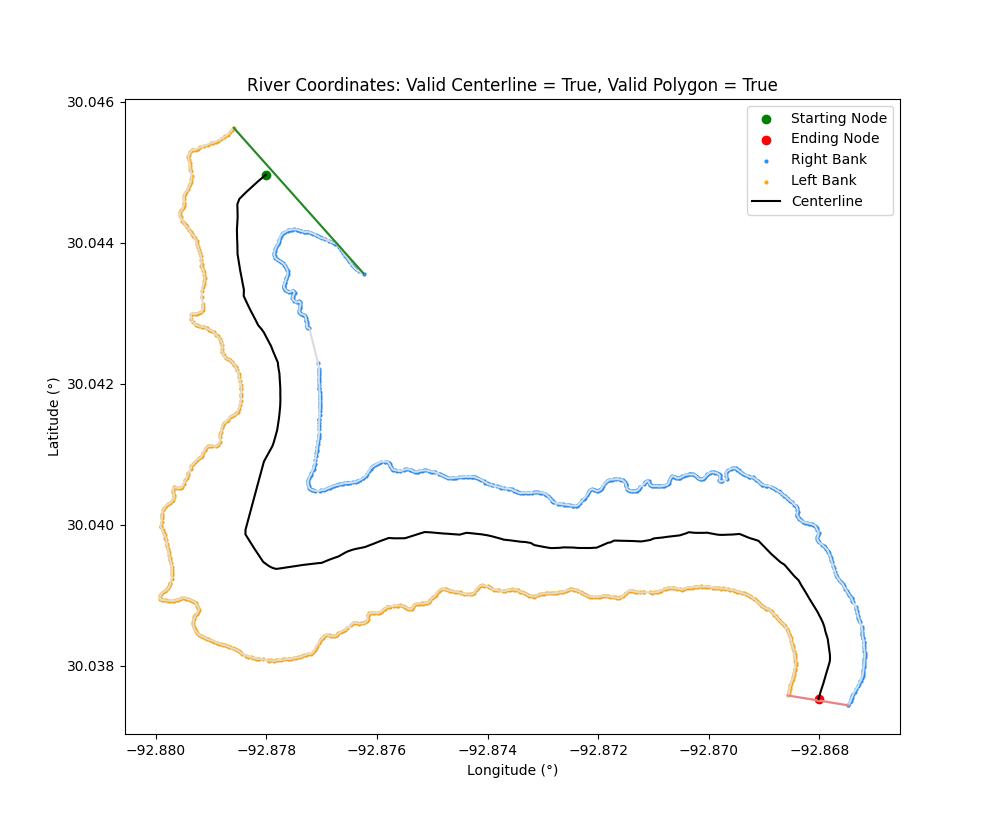
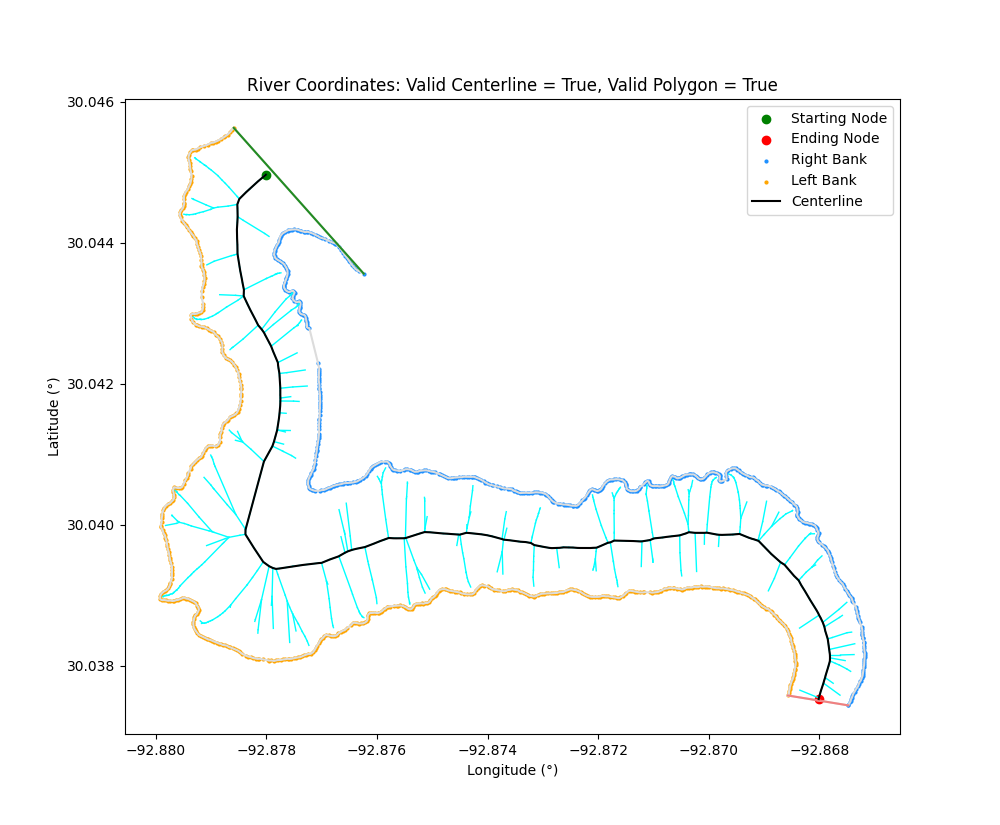
set up dataframe cutoff for debugging

diff --git a/river_centerline_width.py b/river_centerline_width.py
@@ -47,14 +47,10 @@ def convertColumnsToCSV(text_file=None, flipBankDirection=False):
 		write.writerow(header_fields)
 		write.writerows(total_rows)
 
-def riverDataframe(data_csv=None):
-	# River dataframe from csv
-	return pd.read_csv(data_csv)
-
 def leftRightCoordinates(dataframe):
 	right_bank_coordinates = [] # without nan
 	left_bank_coordinates = [] # wtihout nan
-	for index, row in df.iterrows():
+	for index, row in dataframe.iterrows():
 		if not math.isnan(row.rlat) and not math.isnan(row.rlon):
 			right_bank_coordinates.append([row.rlon, row.rlat])
 		if not math.isnan(row.llat) and not math.isnan(row.llon):
@@ -170,9 +166,12 @@ def networkXGraphShortestPath(all_points_dict, starting_node, ending_node):
 	#nx.draw(graph_connections, with_labels=True, font_size=10)
 	return shortest_path
 ########################################################################
-def centerlineLatitudeLongitude(dataframe=None):
+def centerlineLatitudeLongitude(csv_data=None, optional_cutoff=None):
 	# Returns the latitude and longitude for the centerline
-	left_bank_coordinates, right_bank_coordinates = leftRightCoordinates(dataframe)
+	df = pd.read_csv(csv_data)
+	if optional_cutoff:
+		df = df.head(optional_cutoff)
+	left_bank_coordinates, right_bank_coordinates = leftRightCoordinates(df)
 
 	river_bank_polygon, top_river_line, bottom_river_line = generatePolygon(left_bank_coordinates, right_bank_coordinates)
 	river_bank_voronoi = generateVoronoi(left_bank_coordinates, right_bank_coordinates)
@@ -182,10 +181,14 @@ def centerlineLatitudeLongitude(dataframe=None):
 
 	return shortest_path_coordinates
 
-def plotRiver(dataframe=None, display_all_paths=False, save_plot_name=None, displayVoronoi=False):
+def plotRiver(csv_data=None, display_all_paths=False, plot_title=None, save_plot_name=None, displayVoronoi=False, optional_cutoff=None):
 	# display_all_paths: display all possible paths (not just centerline) (useful for debugging)
 	# Plot river
-	left_bank_coordinates, right_bank_coordinates = leftRightCoordinates(dataframe)
+	df = pd.read_csv(csv_data)
+	if optional_cutoff:
+		df = df.head(optional_cutoff)
+
+	left_bank_coordinates, right_bank_coordinates = leftRightCoordinates(df)
 	river_bank_polygon, top_river_line, bottom_river_line = generatePolygon(left_bank_coordinates, right_bank_coordinates)
 	river_bank_voronoi = generateVoronoi(left_bank_coordinates, right_bank_coordinates)
 
@@ -244,18 +247,24 @@ def plotRiver(dataframe=None, display_all_paths=False, save_plot_name=None, disp
 		valid_path_through = True
 		plt.plot(*zip(*shortest_path_points), c="black", label="Centerline")
 
-	plt.title("River Coordinates: Valid Centerline = {0}, Valid Polygon = {1}".format(valid_path_through, river_bank_polygon.is_valid))
+	if not plot_title:
+		plt.title("River Coordinates: Valid Centerline = {0}, Valid Polygon = {1}".format(valid_path_through, river_bank_polygon.is_valid))
+	else:
+		plt.title(plot_title)
 	plt.xlabel("Longitude (°)")
 	plt.ylabel("Latitude (°)")
 	plt.legend(loc="upper right")
 	plt.show()
 	fig.savefig(save_plot_name)
 
-def riverWidthFromCenterline(river_df=None, centerline_coordinates=None, save_to_csv=None):
+def riverWidthFromCenterline(csv_data=None, centerline_coordinates=None, save_to_csv=None, optional_cutoff=None):
 	# Return river width: right to center, left to center, total width
 	width_dict = {}
 
-	left_bank_coordinates, right_bank_coordinates = leftRightCoordinates(river_df)
+	df = pd.read_csv(csv_data)
+	if optional_cutoff:
+		df = df.head(optional_cutoff)
+	left_bank_coordinates, right_bank_coordinates = leftRightCoordinates(df)
 	river_bank_polygon, top_river_line, bottom_river_line = generatePolygon(left_bank_coordinates, right_bank_coordinates)
 
 	if save_to_csv:
@@ -273,25 +282,30 @@ def riverWidthFromCenterline(river_df=None, centerline_coordinates=None, save_to
 ########################################################################
 if __name__ == "__main__":
 	convertColumnsToCSV(text_file="data/river_coords.txt", flipBankDirection=True)
-	df = riverDataframe(data_csv="data/river_coords.csv")
+
 	# Valid Examples
-	#df = df.head(15) # valid centerline, valid path, valid polygon, valid starting node, valid ending node
-	#df = df.head(100) # valid centerline, valid path, valid polygon, valid starting node, valid ending node
-	df = df.head(550) # valid centerline, valid path, valid polygon, valid starting node, valid ending node
+	cutoff = None
+	#cutoff = 15 # valid centerline, valid path, valid polygon, valid starting node, valid ending node
+	#cutoff = 100 # valid centerline, valid path, valid polygon, valid starting node, valid ending node
+	cutoff = 550 # valid centerline, valid path, valid polygon, valid starting node, valid ending node
 	# Invalid Examples
-	#df = df.head(250) # valid centerline, valid path, invalid polygon, valid starting node, valid ending nodes
-	#df = df.head(40) # invalid centerline, valid path, valid polgyon, invalid starting node, valid ending node
-	#df = df.head(700) # invalid centerline, valid path, valid polgyon, invalid starting node, valid ending node
-	#df = df.head(1000) # invalid centerline, invalid path, invalid polgyon, invalid starting node, valid ending node
+	#cutoff = 250 # valid centerline, valid path, invalid polygon, valid starting node, valid ending nodes
+	#cutoff = 40 # invalid centerline, valid path, valid polgyon, invalid starting node, valid ending node
+	#cutoff = 700 # invalid centerline, valid path, valid polgyon, invalid starting node, valid ending node
+	#cutoff = 1000 # invalid centerline, invalid path, invalid polgyon, invalid starting node, valid ending node
 
 	# Plot river banks
-	plotRiver(dataframe=df, save_plot_name="data/river_coords.png", display_all_paths=False, displayVoronoi=False)
+	plotRiver(csv_data="data/river_coords.csv", 
+			save_plot_name="data/river_coords.png", 
+			display_all_paths=True, 
+			displayVoronoi=False, 
+			optional_cutoff=cutoff)
 
 	# Return the latitude/longtiude coordinates for the centerline
-	centerline_longitude_latitude_coordinates = centerlineLatitudeLongitude(dataframe=df)
+	centerline_longitude_latitude_coordinates = centerlineLatitudeLongitude(csv_data="data/river_coords.csv", optional_cutoff=cutoff)
 	print(centerline_longitude_latitude_coordinates)
 
 	# Return the width of the river for each centerline vertex (distance from right, left, total)
-	river_width_dict = riverWidthFromCenterline(river_df=df, 
+	river_width_dict = riverWidthFromCenterline(csv_data="data/river_coords.csv", 
 												centerline_coordinates=centerline_longitude_latitude_coordinates,
 												save_to_csv="data/river_width.csv")

diff --git a/README.md b/README.md
@@ -93,6 +93,8 @@ Based on the work:
 
 Golly, Antonius & Turowski, Jens. (2017). Deriving principle channel metrics from bank and long-profile geometry with the R-package cmgo. Earth Surface Dynamics Discussions. 5. 1-19. 10.5194/esurf-5-557-2017. 
 
+[Github - CMGO](https://github.com/AntoniusGolly/cmgo)
+
  <p align="center">
   <img src="https://user-images.githubusercontent.com/22159116/222872092-e0b579cc-4f84-4f49-aa53-397785fb9bf2.png" />
   <img src="https://user-images.githubusercontent.com/22159116/222872119-7c485ee2-4ffd-413a-9e4f-b043b122d2bb.png" />
